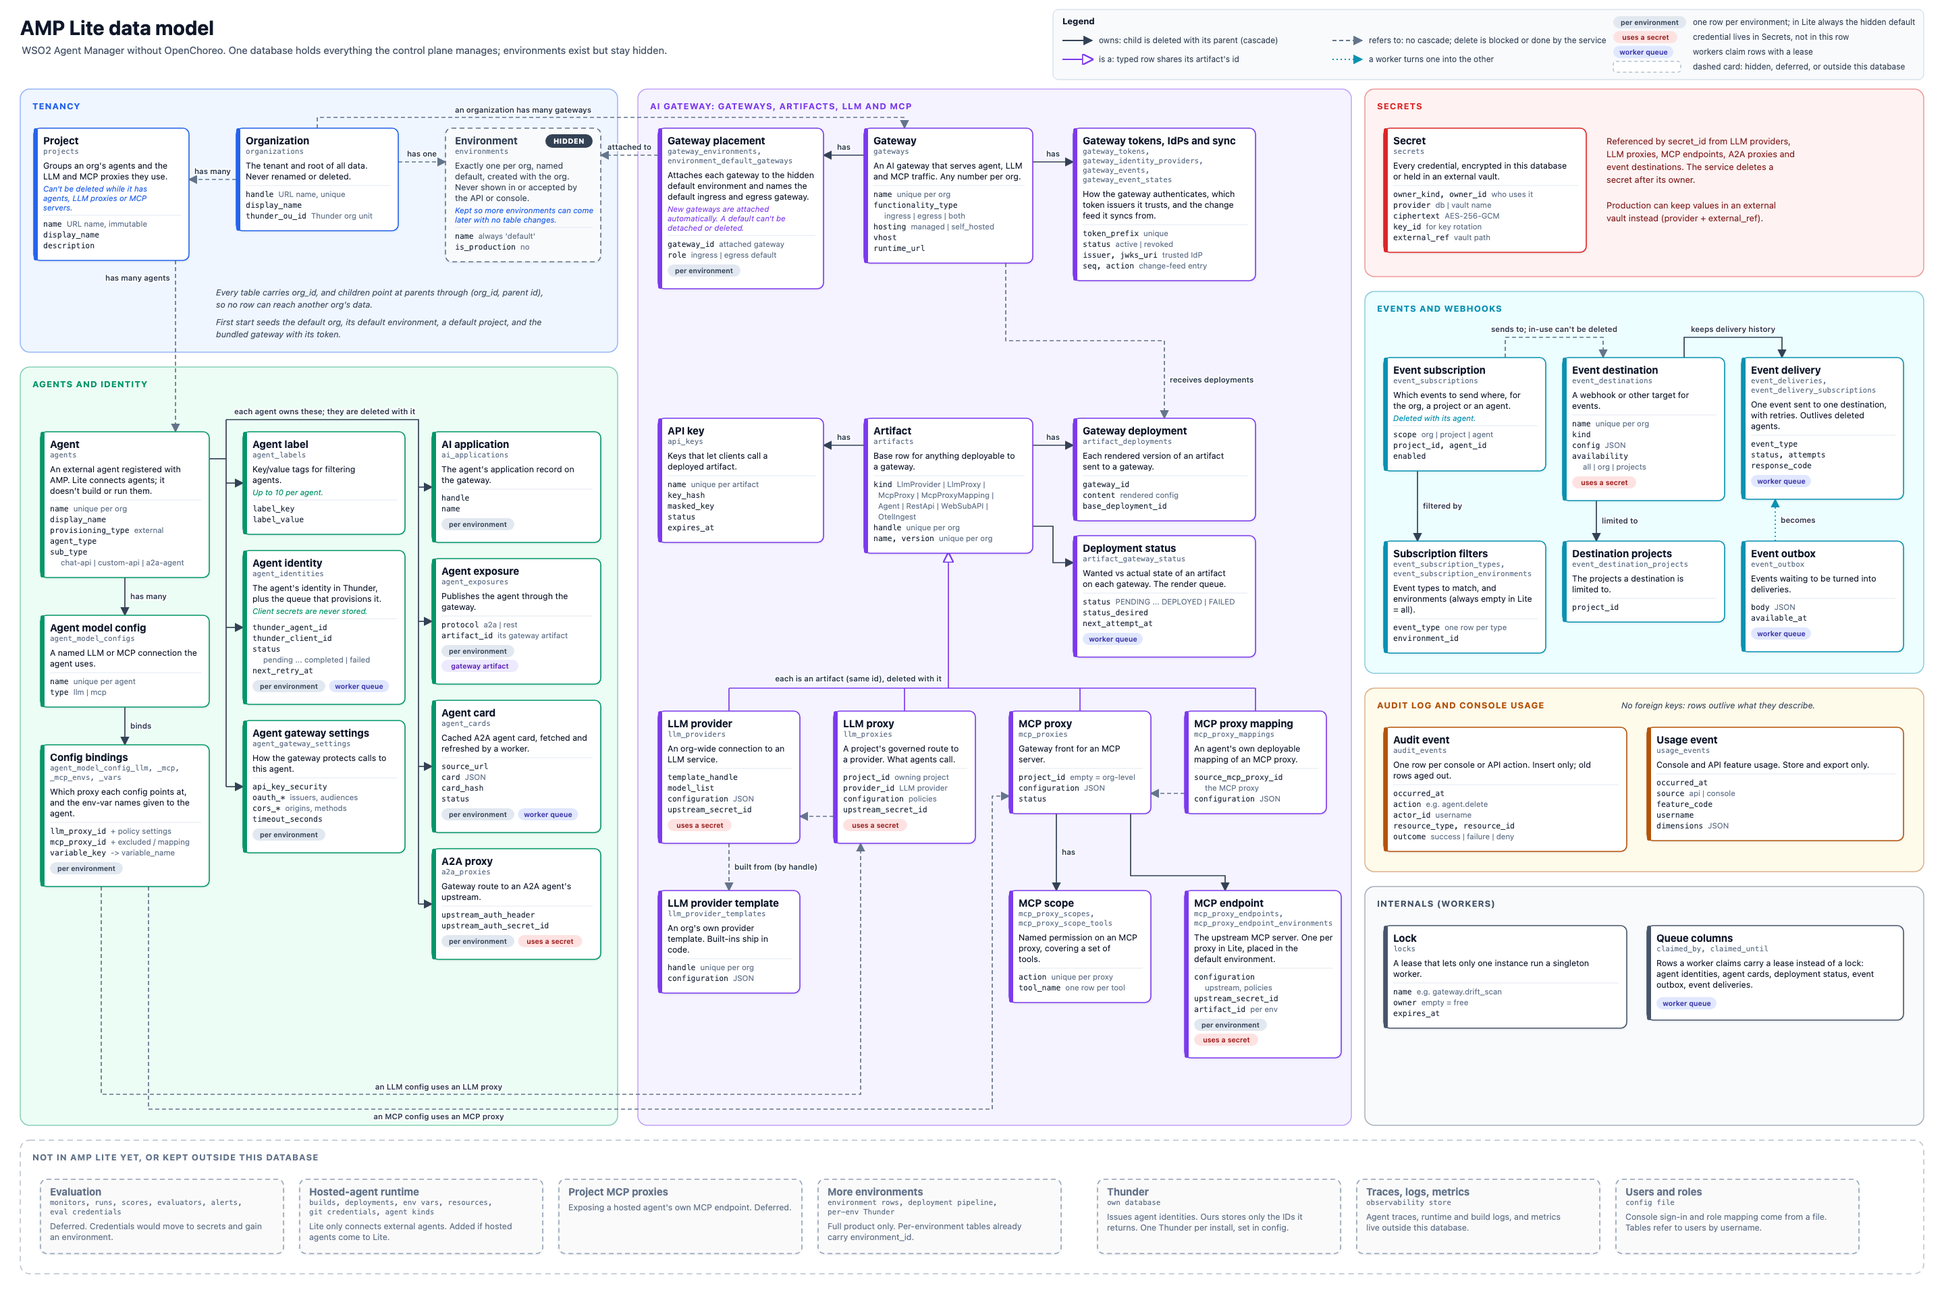
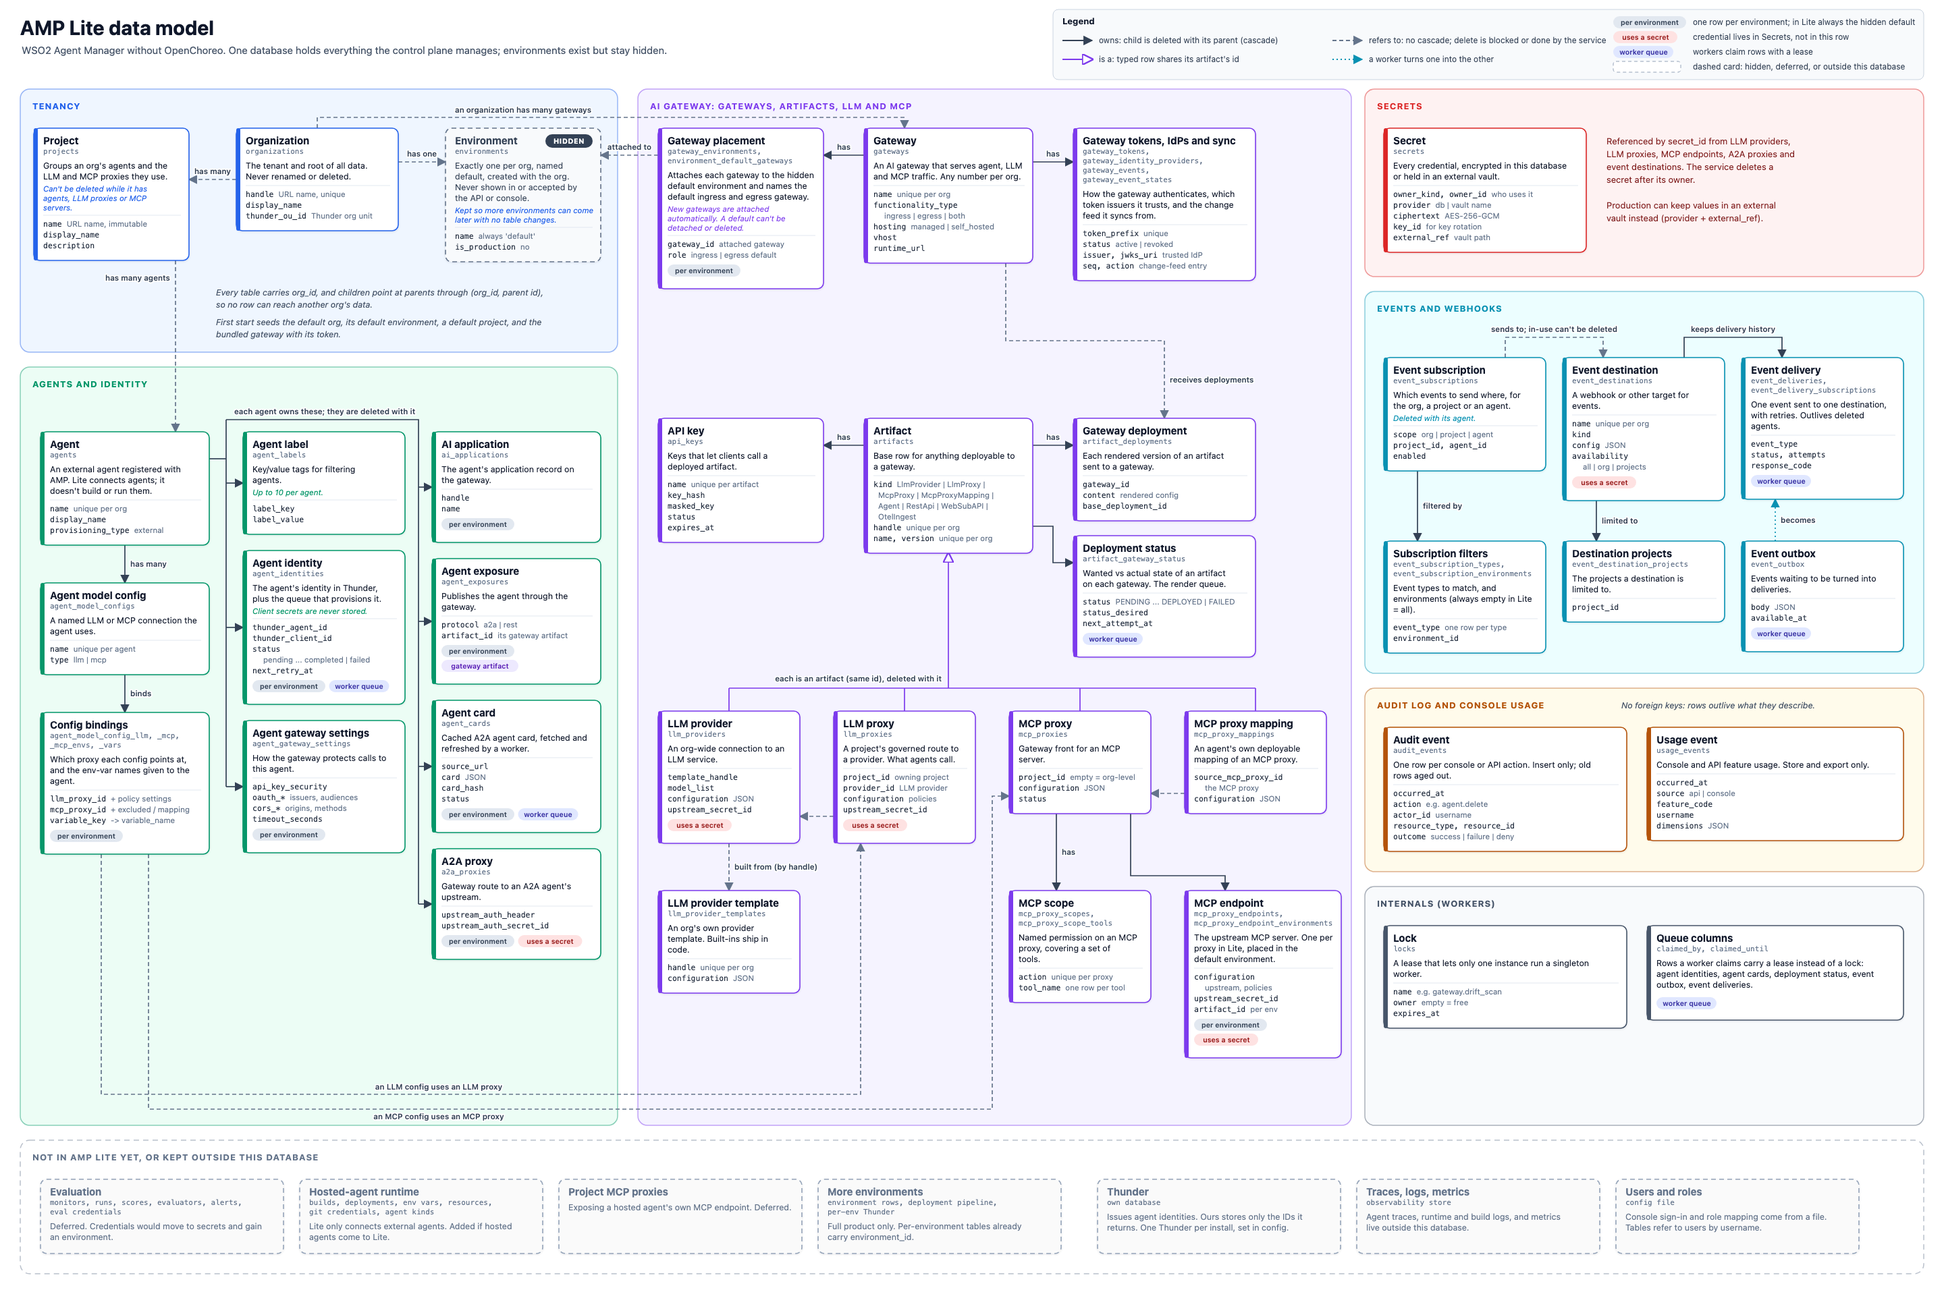
Stop storing agent_type and sub_type
agents.agent_type held the API's agentType.type, which carries
OpenChoreo ComponentType names (external-agent-api, agent-api) and
maps one-to-one onto provisioning_type. sub_type only drove hosted
agent behaviour; the service already ignores it for external agents,
and the API never returned it for them.

Rather than add a second enum that restates provisioning_type, drop
both columns. provisioning_type keeps its CHECK and stays the single
source: the API derives agentType.type from it (external ->
external-agent-api, internal -> agent-api), so the response shape and
values that the console and CLI branch on are unchanged. Requests
still carry agentType and are validated as before.

The schema is still an unreleased baseline, so 001_baseline is
regenerated in place.

Changed region(s): [[0.0, 0.3999, 0.0938, 0.6767]]

diff --git a/docs/amp-lite/data-model.html b/docs/amp-lite/data-model.html
@@ -98,8 +98,8 @@ svg .ctable { font-family: ui-monospace, SFMono-Regular, Menlo, Consolas, monosp
 <path d="M 975.0 230.0 L 890.0 230.0" fill="none" stroke="#64748b" stroke-width="1.7" stroke-dasharray="6 4" marker-end="url(#arrowg)"/>
 <path d="M 1280.0 230.0 L 1220.0 230.0" fill="none" stroke="#334155" stroke-width="1.7" marker-end="url(#arrow)"/>
 <path d="M 260.0 386.0 L 260.0 640.0" fill="none" stroke="#64748b" stroke-width="1.7" stroke-dasharray="6 4" marker-end="url(#arrowg)"/>
-<path d="M 185.0 856.0 L 185.0 912.0" fill="none" stroke="#334155" stroke-width="1.7" marker-end="url(#arrow)"/>
-<path d="M 185.0 1048.0 L 185.0 1104.0" fill="none" stroke="#334155" stroke-width="1.7" marker-end="url(#arrow)"/>
+<path d="M 185.0 808.0 L 185.0 864.0" fill="none" stroke="#334155" stroke-width="1.7" marker-end="url(#arrow)"/>
+<path d="M 185.0 1000.0 L 185.0 1056.0" fill="none" stroke="#334155" stroke-width="1.7" marker-end="url(#arrow)"/>
 <path d="M 310.0 680.0 L 335.0 680.0" fill="none" stroke="#334155" stroke-width="1.7"/>
 <path d="M 335.0 622.0 L 335.0 1166.0" fill="none" stroke="#334155" stroke-width="1.7"/>
 <path d="M 335.0 622.0 L 620.0 622.0 L 620.0 1340.0" fill="none" stroke="#334155" stroke-width="1.7"/>
@@ -126,8 +126,8 @@ svg .ctable { font-family: ui-monospace, SFMono-Regular, Menlo, Consolas, monosp
 <path d="M 1755.0 1176.0 L 1705.0 1176.0" fill="none" stroke="#64748b" stroke-width="1.7" stroke-dasharray="6 4" marker-end="url(#arrowg)"/>
 <path d="M 1565.0 1206.0 L 1565.0 1320.0" fill="none" stroke="#334155" stroke-width="1.7" marker-end="url(#arrow)"/>
 <path d="M 1675.0 1206.0 L 1675.0 1298.0 L 1815.0 1298.0 L 1815.0 1320.0" fill="none" stroke="#334155" stroke-width="1.7" marker-end="url(#arrow)"/>
-<path d="M 150.0 1314.0 L 150.0 1622.0 L 1275.0 1622.0 L 1275.0 1250.0" fill="none" stroke="#64748b" stroke-width="1.7" stroke-dasharray="6 4" marker-end="url(#arrowg)"/>
-<path d="M 220.0 1314.0 L 220.0 1644.0 L 1470.0 1644.0 L 1470.0 1180.0 L 1495.0 1180.0" fill="none" stroke="#64748b" stroke-width="1.7" stroke-dasharray="6 4" marker-end="url(#arrowg)"/>
+<path d="M 150.0 1266.0 L 150.0 1622.0 L 1275.0 1622.0 L 1275.0 1250.0" fill="none" stroke="#64748b" stroke-width="1.7" stroke-dasharray="6 4" marker-end="url(#arrowg)"/>
+<path d="M 220.0 1266.0 L 220.0 1644.0 L 1470.0 1644.0 L 1470.0 1180.0 L 1495.0 1180.0" fill="none" stroke="#64748b" stroke-width="1.7" stroke-dasharray="6 4" marker-end="url(#arrowg)"/>
 <path d="M 2230.0 530.0 L 2230.0 500.0 L 2375.0 500.0 L 2375.0 530.0" fill="none" stroke="#64748b" stroke-width="1.7" stroke-dasharray="6 4" marker-end="url(#arrowg)"/>
 <path d="M 2495.0 530.0 L 2495.0 500.0 L 2640.0 500.0 L 2640.0 530.0" fill="none" stroke="#334155" stroke-width="1.7" marker-end="url(#arrow)"/>
 <path d="M 2100.0 698.0 L 2100.0 802.0" fill="none" stroke="#334155" stroke-width="1.7" marker-end="url(#arrow)"/>
@@ -139,8 +139,8 @@ svg .ctable { font-family: ui-monospace, SFMono-Regular, Menlo, Consolas, monosp
 <text x="932.5" y="222.0" text-anchor="middle" class="alabel">attached to</text>
 <text x="1250.0" y="222.0" text-anchor="middle" class="alabel">has</text>
 <text x="252.0" y="416.0" text-anchor="end" class="alabel">has many agents</text>
-<text x="193.0" y="888.0" text-anchor="start" class="alabel">has many</text>
-<text x="193.0" y="1080.0" text-anchor="start" class="alabel">binds</text>
+<text x="193.0" y="840.0" text-anchor="start" class="alabel">has many</text>
+<text x="193.0" y="1032.0" text-anchor="start" class="alabel">binds</text>
 <text x="1560.0" y="232.0" text-anchor="middle" class="alabel">has</text>
 <text x="1733.0" y="566.5" text-anchor="start" class="alabel">receives deployments</text>
 <text x="1560.0" y="652.0" text-anchor="middle" class="alabel">has</text>
@@ -199,8 +199,8 @@ svg .ctable { font-family: ui-monospace, SFMono-Regular, Menlo, Consolas, monosp
 <text x="674" y="370"><tspan class="fkey">is_production</tspan><tspan class="fnote" dx="7">no</tspan></text>
 </g>
 <g class="card" id="card-agent">
-<rect x="60" y="640" width="250" height="216" rx="9" fill="#ffffff" stroke="#059669" stroke-width="1.6" filter="url(#shadow)"/>
-<rect x="60" y="640" width="6" height="216" rx="3" fill="#059669"/>
+<rect x="60" y="640" width="250" height="168" rx="9" fill="#ffffff" stroke="#059669" stroke-width="1.6" filter="url(#shadow)"/>
+<rect x="60" y="640" width="6" height="168" rx="3" fill="#059669"/>
 <text x="74" y="664" class="ctitle" fill="#0f172a">Agent</text>
 <text x="74" y="678" class="ctable">agents</text>
 <text x="74" y="700" class="cpurpose" fill="#0f172a">An external agent registered with</text>
@@ -210,9 +210,6 @@ svg .ctable { font-family: ui-monospace, SFMono-Regular, Menlo, Consolas, monosp
 <text x="74" y="758"><tspan class="fkey">name</tspan><tspan class="fnote" dx="7">unique per org</tspan></text>
 <text x="74" y="774"><tspan class="fkey">display_name</tspan></text>
 <text x="74" y="790"><tspan class="fkey">provisioning_type</tspan><tspan class="fnote" dx="7">external</tspan></text>
-<text x="74" y="806"><tspan class="fkey">agent_type</tspan></text>
-<text x="74" y="822"><tspan class="fkey">sub_type</tspan></text>
-<text x="90" y="838" class="fnote">chat-api | custom-api | a2a-agent</text>
 </g>
 <g class="card" id="card-labels">
 <rect x="360" y="640" width="240" height="152" rx="9" fill="#ffffff" stroke="#059669" stroke-width="1.6" filter="url(#shadow)"/>
@@ -321,31 +318,31 @@ svg .ctable { font-family: ui-monospace, SFMono-Regular, Menlo, Consolas, monosp
 <text x="815" y="1399" class="chip" fill="#991b1b" text-anchor="middle">uses a secret</text>
 </g>
 <g class="card" id="card-mconf">
-<rect x="60" y="912" width="250" height="136" rx="9" fill="#ffffff" stroke="#059669" stroke-width="1.6" filter="url(#shadow)"/>
-<rect x="60" y="912" width="6" height="136" rx="3" fill="#059669"/>
-<text x="74" y="936" class="ctitle" fill="#0f172a">Agent model config</text>
-<text x="74" y="950" class="ctable">agent_model_configs</text>
-<text x="74" y="972" class="cpurpose" fill="#0f172a">A named LLM or MCP connection the</text>
-<text x="74" y="988" class="cpurpose" fill="#0f172a">agent uses.</text>
-<line x1="74" y1="997" x2="298" y2="997" stroke="#e2e8f0"/>
-<text x="74" y="1014"><tspan class="fkey">name</tspan><tspan class="fnote" dx="7">unique per agent</tspan></text>
-<text x="74" y="1030"><tspan class="fkey">type</tspan><tspan class="fnote" dx="7">llm | mcp</tspan></text>
+<rect x="60" y="864" width="250" height="136" rx="9" fill="#ffffff" stroke="#059669" stroke-width="1.6" filter="url(#shadow)"/>
+<rect x="60" y="864" width="6" height="136" rx="3" fill="#059669"/>
+<text x="74" y="888" class="ctitle" fill="#0f172a">Agent model config</text>
+<text x="74" y="902" class="ctable">agent_model_configs</text>
+<text x="74" y="924" class="cpurpose" fill="#0f172a">A named LLM or MCP connection the</text>
+<text x="74" y="940" class="cpurpose" fill="#0f172a">agent uses.</text>
+<line x1="74" y1="949" x2="298" y2="949" stroke="#e2e8f0"/>
+<text x="74" y="966"><tspan class="fkey">name</tspan><tspan class="fnote" dx="7">unique per agent</tspan></text>
+<text x="74" y="982"><tspan class="fkey">type</tspan><tspan class="fnote" dx="7">llm | mcp</tspan></text>
 </g>
 <g class="card" id="card-mlinks">
-<rect x="60" y="1104" width="250" height="210" rx="9" fill="#ffffff" stroke="#059669" stroke-width="1.6" filter="url(#shadow)"/>
-<rect x="60" y="1104" width="6" height="210" rx="3" fill="#059669"/>
-<text x="74" y="1128" class="ctitle" fill="#0f172a">Config bindings</text>
-<text x="74" y="1142" class="ctable">agent_model_config_llm, _mcp,</text>
-<text x="74" y="1156" class="ctable">_mcp_envs, _vars</text>
-<text x="74" y="1178" class="cpurpose" fill="#0f172a">Which proxy each config points at,</text>
-<text x="74" y="1194" class="cpurpose" fill="#0f172a">and the env-var names given to the</text>
-<text x="74" y="1210" class="cpurpose" fill="#0f172a">agent.</text>
-<line x1="74" y1="1219" x2="298" y2="1219" stroke="#e2e8f0"/>
-<text x="74" y="1236"><tspan class="fkey">llm_proxy_id</tspan><tspan class="fnote" dx="7">+ policy settings</tspan></text>
-<text x="74" y="1252"><tspan class="fkey">mcp_proxy_id</tspan><tspan class="fnote" dx="7">+ excluded / mapping</tspan></text>
-<text x="74" y="1268"><tspan class="fkey">variable_key</tspan><tspan class="fnote" dx="7">-&gt; variable_name</tspan></text>
-<rect x="74" y="1278" width="108" height="18" rx="9" fill="#e2e8f0"/>
-<text x="128" y="1291" class="chip" fill="#334155" text-anchor="middle">per environment</text>
+<rect x="60" y="1056" width="250" height="210" rx="9" fill="#ffffff" stroke="#059669" stroke-width="1.6" filter="url(#shadow)"/>
+<rect x="60" y="1056" width="6" height="210" rx="3" fill="#059669"/>
+<text x="74" y="1080" class="ctitle" fill="#0f172a">Config bindings</text>
+<text x="74" y="1094" class="ctable">agent_model_config_llm, _mcp,</text>
+<text x="74" y="1108" class="ctable">_mcp_envs, _vars</text>
+<text x="74" y="1130" class="cpurpose" fill="#0f172a">Which proxy each config points at,</text>
+<text x="74" y="1146" class="cpurpose" fill="#0f172a">and the env-var names given to the</text>
+<text x="74" y="1162" class="cpurpose" fill="#0f172a">agent.</text>
+<line x1="74" y1="1171" x2="298" y2="1171" stroke="#e2e8f0"/>
+<text x="74" y="1188"><tspan class="fkey">llm_proxy_id</tspan><tspan class="fnote" dx="7">+ policy settings</tspan></text>
+<text x="74" y="1204"><tspan class="fkey">mcp_proxy_id</tspan><tspan class="fnote" dx="7">+ excluded / mapping</tspan></text>
+<text x="74" y="1220"><tspan class="fkey">variable_key</tspan><tspan class="fnote" dx="7">-&gt; variable_name</tspan></text>
+<rect x="74" y="1230" width="108" height="18" rx="9" fill="#e2e8f0"/>
+<text x="128" y="1243" class="chip" fill="#334155" text-anchor="middle">per environment</text>
 </g>
 <g class="card" id="card-gwenv">
 <rect x="975" y="190" width="245" height="238" rx="9" fill="#ffffff" stroke="#7c3aed" stroke-width="1.6" filter="url(#shadow)"/>

diff --git a/agent-manager-service/db_migrations/baseline_test.go b/agent-manager-service/db_migrations/baseline_test.go
@@ -98,14 +98,14 @@ func assertBaselineKeys(t *testing.T, gormDB *gorm.DB) {
 	}
 	require.NoError(t, exec("INSERT INTO projects (id, org_id, name, display_name, created_at, updated_at) VALUES (?, ?, 'p', 'P', ?, ?)", project, orgA, now, now))
 	insertAgent := func(agentID, orgID, name string) error {
-		return exec(`INSERT INTO agents (id, org_id, project_id, name, display_name, provisioning_type, agent_type, created_at, updated_at)
-			VALUES (?, ?, ?, ?, 'A', 'external', 'external-agent-api', ?, ?)`, agentID, orgID, project, name, now, now)
+		return exec(`INSERT INTO agents (id, org_id, project_id, name, display_name, provisioning_type, created_at, updated_at)
+			VALUES (?, ?, ?, ?, 'A', 'external', ?, ?)`, agentID, orgID, project, name, now, now)
 	}
 	require.NoError(t, insertAgent(agent, orgA, "a"))
 
 	assert.True(t, dberr.IsForeignKeyViolation(insertAgent(id(), orgB, "b")), "an agent cannot sit in another org's project")
 	assert.True(t, dberr.IsDuplicateKey(insertAgent(id(), orgA, "a")), "agent names are unique per org")
-	assert.Error(t, exec("INSERT INTO agents (id, org_id, project_id, name, display_name, provisioning_type, agent_type, created_at, updated_at) VALUES (?, ?, ?, 'c', 'C', 'hosted', 'x', ?, ?)", id(), orgA, project, now, now), "check constraint")
+	assert.Error(t, exec("INSERT INTO agents (id, org_id, project_id, name, display_name, provisioning_type, created_at, updated_at) VALUES (?, ?, ?, 'c', 'C', 'hosted', ?, ?)", id(), orgA, project, now, now), "check constraint")
 
 	require.NoError(t, exec("INSERT INTO agent_labels (agent_id, org_id, label_key, label_value) VALUES (?, ?, 'team', 'core')", agent, orgA))
 	assert.True(t, dberr.IsForeignKeyViolation(exec("DELETE FROM projects WHERE id = ?", project)), "a project with agents cannot be deleted")

diff --git a/agent-manager-service/repositories/platform_repository.go b/agent-manager-service/repositories/platform_repository.go
@@ -45,8 +45,6 @@ type CreateAgentInput struct {
 	DisplayName      string
 	Description      string
 	ProvisioningType string
-	AgentType        string
-	SubType          string
 	Labels           map[string]string
 	CreatedBy        string
 }
@@ -290,7 +288,7 @@ func agentResponse(projectName string, a *models.Agent) *models.AgentResponse {
 		ProjectName:  projectName,
 		CreatedAt:    a.CreatedAt,
 		Provisioning: models.Provisioning{Type: a.ProvisioningType},
-		Type:         models.AgentType{Type: a.AgentType, SubType: deref(a.SubType)},
+		Type:         models.AgentType{Type: string(utils.AgentTypeForProvisioning(a.ProvisioningType))},
 		Labels:       labels,
 	}
 }
@@ -333,7 +331,7 @@ func (r *platformRepo) CreateAgent(ctx context.Context, ouID, projectName string
 	a := models.Agent{
 		ID: newID(), OrgID: org.ID, ProjectID: p.ID, Name: in.Name, DisplayName: displayName,
 		Description: optional(in.Description), ProvisioningType: in.ProvisioningType,
-		AgentType: in.AgentType, SubType: optional(in.SubType), CreatedBy: optional(in.CreatedBy),
+		CreatedBy: optional(in.CreatedBy),
 		CreatedAt: now, UpdatedAt: now,
 	}
 	keys := make([]string, 0, len(in.Labels))

diff --git a/docs/amp-lite/src/data_model_gen.py b/docs/amp-lite/src/data_model_gen.py
@@ -206,8 +206,7 @@ card("env", "tenancy", 660, TOP, 230, "Environment", "environments",
 AY = 640
 card("agent", "agents", 60, AY, 250, "Agent", "agents",
      "An external agent registered with AMP. Lite connects agents; it doesn't build or run them.",
-     [("name", "unique per org"), ("display_name", ""), ("provisioning_type", "external"),
-      ("agent_type", ""), ("sub_type", "chat-api | custom-api | a2a-agent")])
+     [("name", "unique per org"), ("display_name", ""), ("provisioning_type", "external")])
 card("labels", "agents", 360, AY, 240, "Agent label", "agent_labels",
      "Key/value tags for filtering agents.",
      [("label_key", ""), ("label_value", "")], rel="Up to 10 per agent.")

diff --git a/agent-manager-service/tests/apitestutils/mock_clients.go b/agent-manager-service/tests/apitestutils/mock_clients.go
@@ -67,7 +67,7 @@ func CreateMockPlatformRepository() *repomocks.PlatformRepositoryMock {
 			return &models.AgentResponse{
 				UUID: uuid.NewString(), Name: in.Name, DisplayName: in.DisplayName, ProjectName: projectName,
 				Provisioning: models.Provisioning{Type: in.ProvisioningType},
-				Type:         models.AgentType{Type: in.AgentType, SubType: in.SubType},
+				Type:         models.AgentType{Type: string(utils.AgentTypeForProvisioning(in.ProvisioningType))},
 				Labels:       in.Labels,
 			}, nil
 		},

diff --git a/agent-manager-service/models/organization.go b/agent-manager-service/models/organization.go
@@ -78,8 +78,6 @@ type Agent struct {
 	DisplayName      string       `gorm:"column:display_name"`
 	Description      *string      `gorm:"column:description"`
 	ProvisioningType string       `gorm:"column:provisioning_type"`
-	AgentType        string       `gorm:"column:agent_type"`
-	SubType          *string      `gorm:"column:sub_type"`
 	CreatedBy        *string      `gorm:"column:created_by"`
 	CreatedAt        time.Time    `gorm:"column:created_at"`
 	UpdatedAt        time.Time    `gorm:"column:updated_at"`

diff --git a/agent-manager-service/db/dbtest/dbtest.go b/agent-manager-service/db/dbtest/dbtest.go
@@ -76,7 +76,7 @@ func Agent(t *testing.T, db *gorm.DB, orgID string, projectID uuid.UUID, name st
 	ts := now()
 	a := models.Agent{
 		ID: uuid.Must(uuid.NewV7()), OrgID: uuid.MustParse(orgID), ProjectID: projectID, Name: name, DisplayName: name,
-		ProvisioningType: "external", AgentType: "agent-api", CreatedAt: ts, UpdatedAt: ts,
+		ProvisioningType: "external", CreatedAt: ts, UpdatedAt: ts,
 	}
 	require.NoError(t, db.Omit("Labels").Create(&a).Error)
 	return a.ID

diff --git a/agent-manager-service/utils/agent_types.go b/agent-manager-service/utils/agent_types.go
@@ -32,6 +32,15 @@ const (
 	AgentTypeExternalAPI AgentType = "external-agent-api"
 )
 
+// AgentTypeForProvisioning is the agentType.type the API reports for an agent.
+// It is not stored: it follows from the provisioning type one-to-one.
+func AgentTypeForProvisioning(provisioningType string) AgentType {
+	if provisioningType == string(InternalAgent) {
+		return AgentTypeAPI
+	}
+	return AgentTypeExternalAPI
+}
+
 type AgentSubType string
 
 const (

diff --git a/agent-manager-service/services/agent_manager.go b/agent-manager-service/services/agent_manager.go
@@ -454,10 +454,6 @@ func (s *agentManagerService) CreateAgent(ctx context.Context, ouID string, proj
 		Description:      utils.StrPointerAsStr(req.Description, ""),
 		ProvisioningType: req.Provisioning.Type,
 	}
-	if req.AgentType != nil {
-		in.AgentType = req.AgentType.Type
-		in.SubType = utils.StrPointerAsStr(req.AgentType.SubType, "")
-	}
 	if req.Labels != nil {
 		in.Labels = *req.Labels
 	}

diff --git a/docs/amp-lite/database-schema.md b/docs/amp-lite/database-schema.md
@@ -135,9 +135,7 @@ Lite has external agents only. Runtime tables (build settings, builds, deploymen
 | name | short text (63) | no | Unique per org (today's behaviour; gateway artifacts key on it). Immutable. |
 | display_name | short text (255) | no | |
 | description | short text (1000) | yes | |
-| provisioning_type | short text (16) | no | `external` in Lite; `internal` reserved for the full product. |
-| agent_type | short text (32) | no | e.g. `external-agent-api` |
-| sub_type | short text (32) | yes | `chat-api`, `custom-api`, `a2a-agent` |
+| provisioning_type | short text (16) | no | CHECK `external` or `internal`. `external` in Lite; `internal` reserved for the full product. The API's `agentType.type` is derived from it (`external` → `external-agent-api`, `internal` → `agent-api`) rather than stored. |
 | created_by | short text (255) | yes | |
 | created_at, updated_at | time | no | |
 

diff --git a/agent-manager-service/docs/database-er.md b/agent-manager-service/docs/database-er.md
@@ -24,7 +24,7 @@ erDiagram
         uuid id
         string name
         string display_name
-        string agent_type
+        string provisioning_type
         string description
         uuid project_id
         uuid org_id
